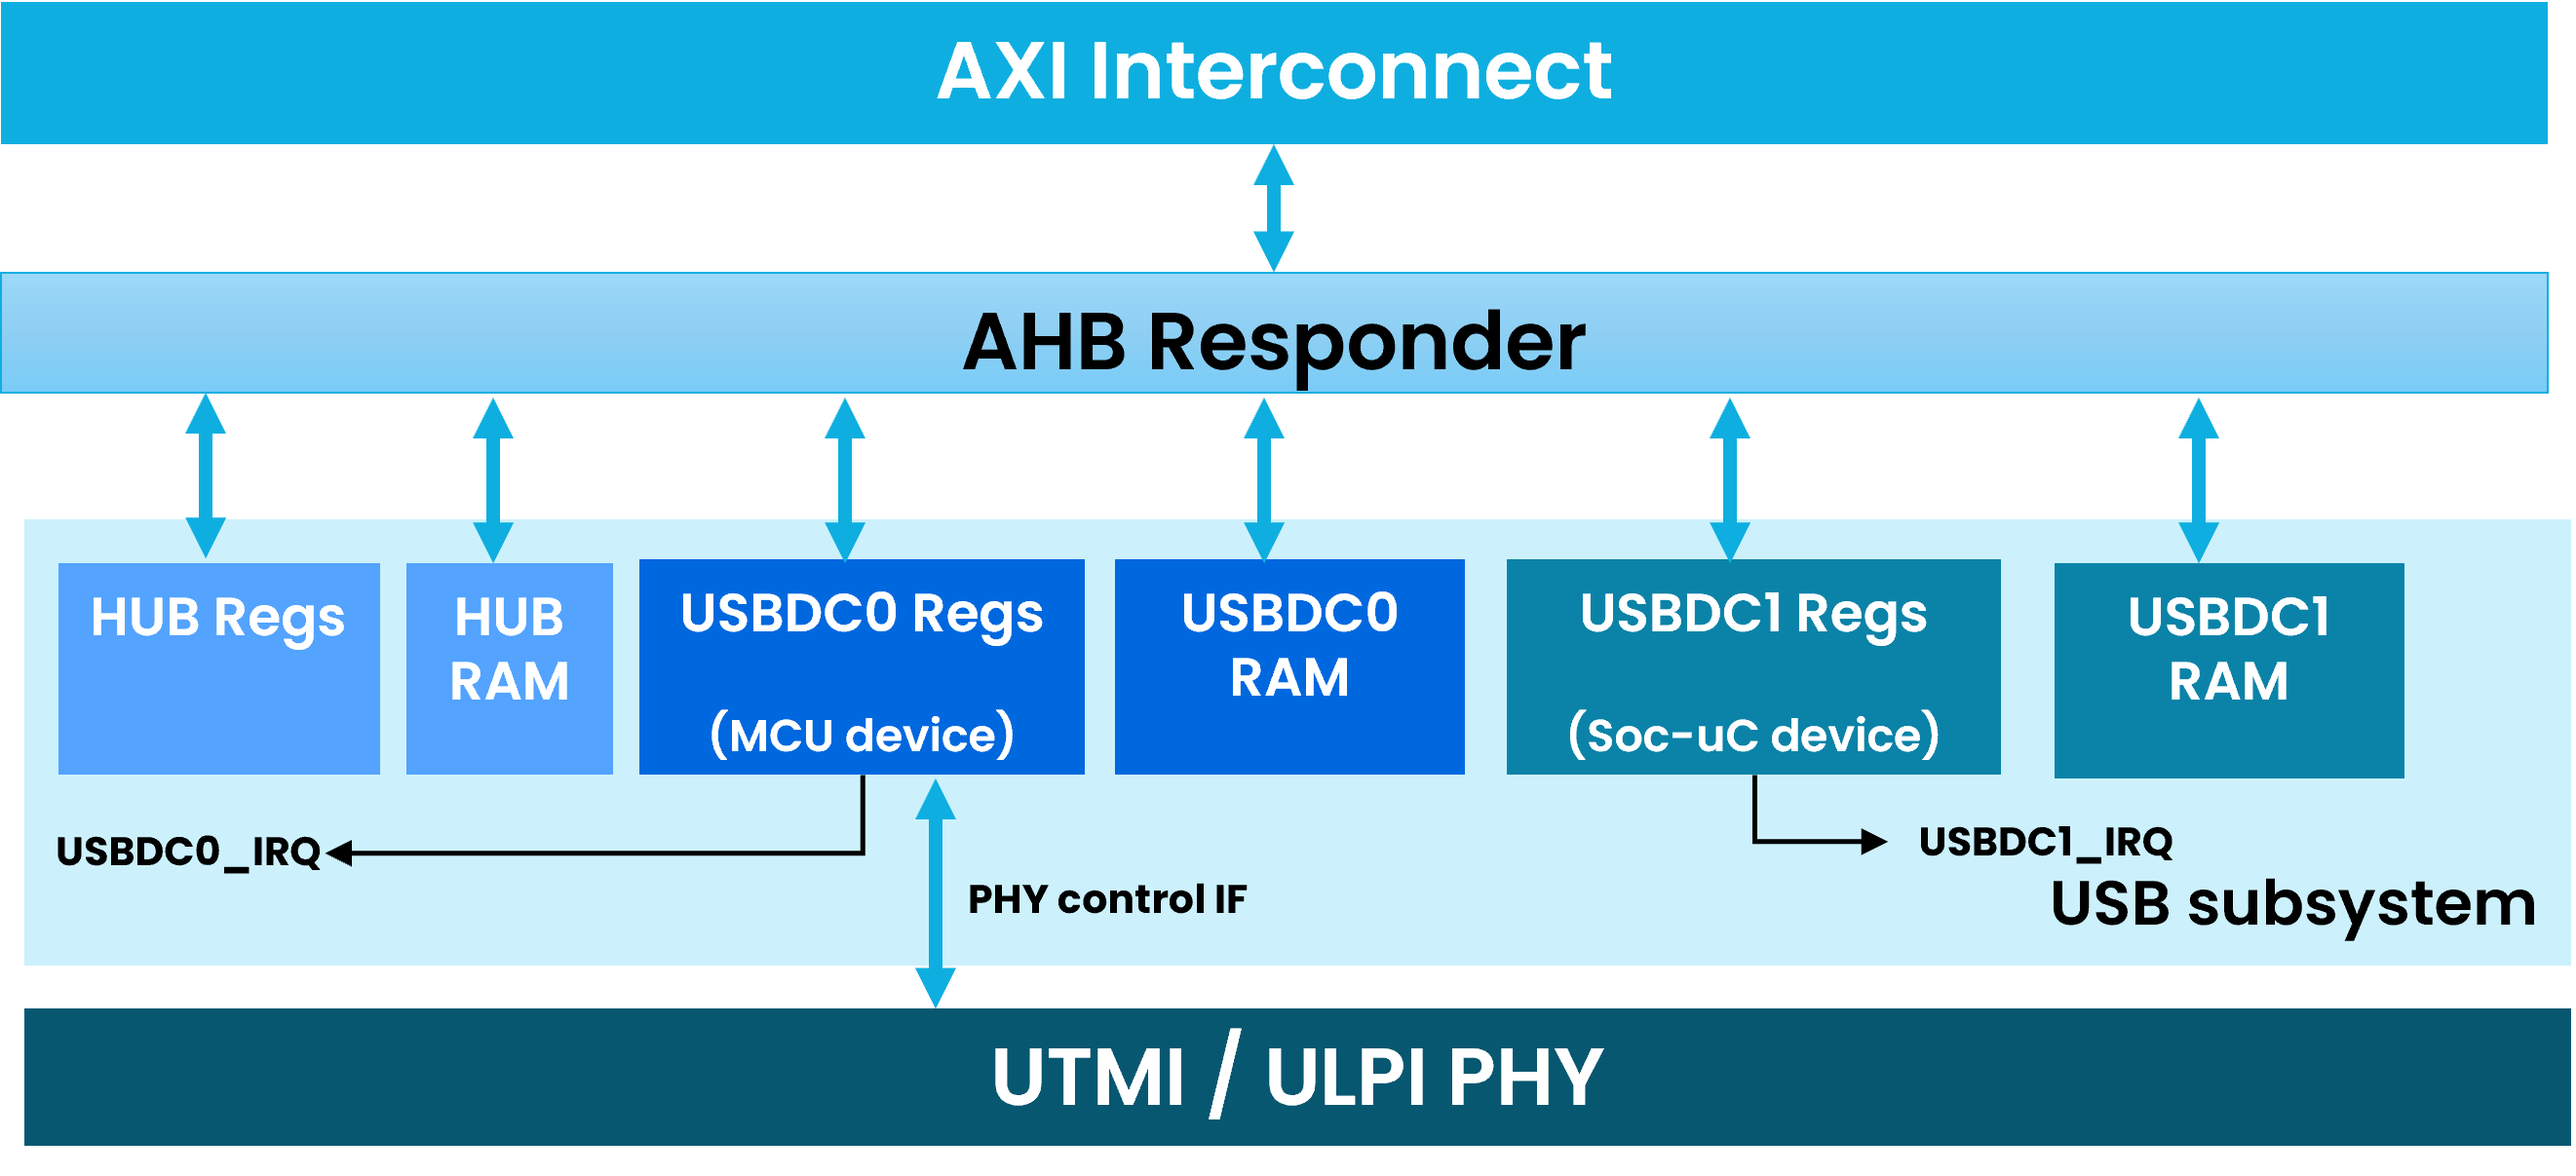
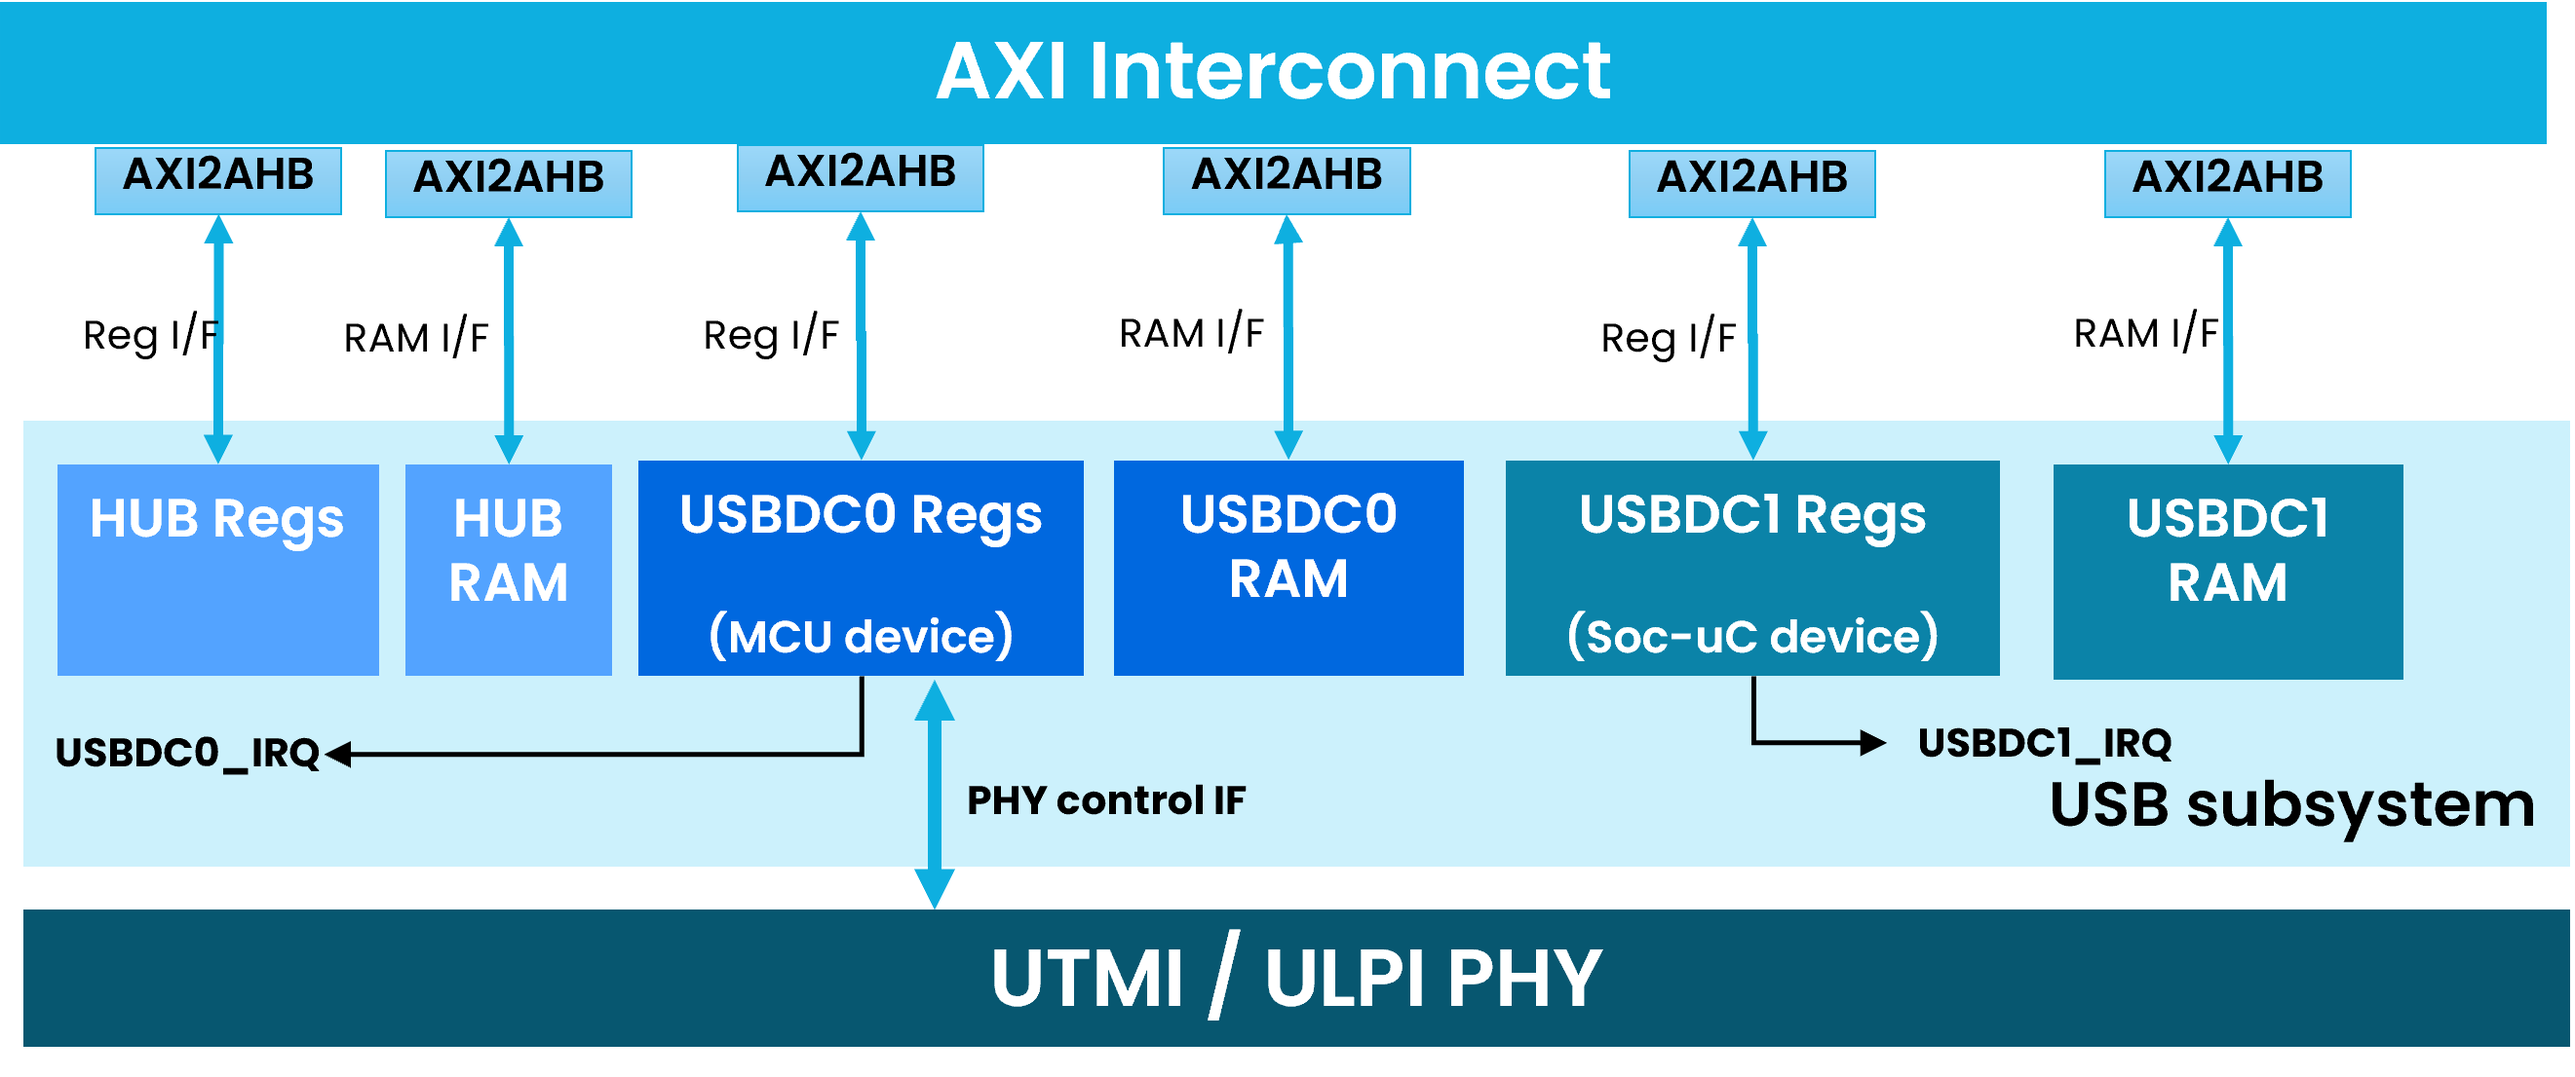
[DOC] USB2 documentation update #2
- Updated USB syste view diagram
- Updated enumeration sequence diagrams
- Updated hitless update scenario
- Removed SoC-uC reset of USBD1 sections
- Clarified HUB RAM description

diff --git a/docs/USB2_Programmers_Guide.md b/docs/USB2_Programmers_Guide.md
@@ -56,28 +56,34 @@ The SoC with caliptra-ss containing USB module exposes one physical USB connecti
 2. Downstream Port 0 connected to USBDC0 managed by MCU.
 3. Downstream Port 1 connected to USBDC1 managed by SoC-uC.
 
-The external BMC host observes a topology equivalent to:
-
+The external USB host observes a topology equivalent to:
 
 ```text
-                        BMC USB Host
-                            |
-                            |
-                  Single USB Connection
-                            |
-                            v
-                   +----------------------+
-                   | Embedded Virtual Hub |
-                   |       (EVH)          |
-                   +----------------------+
-                        |             |
-                        |             |
-                        v             v
-                  +-----------+   +-------------+
-                  |   USBDC0  |   |   USBDC1    |
-                  | MCU Device|   |SoC-uC Device|
-                  +-----------+   +-------------+
+
+       PLATFORM / SYSTEM                    SoC with claiptra-ss
+┌─────────────────────────┐        ┌──────────────────────────────────────┐
+│                         │        │                                      │
+│        USB Host         │        │         USB2 compound device         │
+│                         │        │      ┌─────────────────────┐         │
+│  BMC, host processor,   │ Single │      │ Embedded Virtual USB|         │
+│  service processor, or  ├──USB───┼─────►│    Hub (EVH)        │         │
+│  validation host        │ Link   │      └──────────┬──────────┘         │
+│                         │        │                 │                    │
+└─────────────────────────┘        │         ┌───────┴───────┐            │
+                                   │         │               │            │
+                                   │         ▼               ▼            │
+                                   │ ┌──────────────┐ ┌──────────────┐    │
+                                   │ │    USBD0     │ │    USBD1     │    │
+                                   │ │              │ │              │    │
+                                   │ │ Caliptra-ss  │ │ SoC-uC       │    │
+                                   │ │ MCU-owned    │ │ owned        │    │
+                                   │ │ device       │ │ device       │    │
+                                   │ └──────────────┘ └──────────────┘    │
+                                   │                                      │
+                                   └──────────────────────────────────────┘
+                                              SoC boundary
 ```
+
 ### 2.2 Programmer View
 
 ![](module_view.png)
@@ -88,11 +94,11 @@ The external BMC host observes a topology equivalent to:
 |---|---|---|
 | Hub control registers | Selects hub bypass/enable mode and controls upstream hub connection | MCU ROM / MCU firmware |
 | HUB RAM | Stores hub descriptors, SETUP-request match entries, and response metadata | MCU ROM / MCU firmware |
-| Device 0 register bank | Controls MCU-owned USB device instance, including DCON | MCU ROM / MCU firmware |
+| Device 0 register bank | Controls MCU owned USB device instance, including DCON | MCU ROM / MCU firmware |
 | Device 0 EP-list RAM | Stores USBDC0 endpoint command/status entries | MCU ROM / MCU firmware |
 | Device 0 data-buffer RAM | Stores USBDC0 SETUP, control, interrupt, and bulk-transfer data | MCU ROM / MCU firmware |
 | Device 0 IRQ | IRQ associated with USBDC0 instance. | MCU ROM / MCU firmware |
-| Device 1 register bank | Controls SoC-owned USBDC1 instance, including DCON | SoC-uC firmware |
+| Device 1 register bank | Controls SoC-uC owned USBDC1 instance, including DCON | SoC-uC firmware |
 | Device 1 EP-list RAM | Stores USBDC1 endpoint command/status entries | SoC-uC firmware |
 | Device 1 data-buffer RAM | Stores USBDC1 SETUP, control, interrupt, and bulk-transfer data | SoC-uC firmware |
 | Device 1 IRQ | IRQ associated with USBDC1 instance. | SoC-uC firmware |
@@ -161,7 +167,7 @@ sequenceDiagram
     MCU_FW->>MCUU: USBDC initialize
     MCUU->>EVH: USBDC0 connected
 
-    EVH->>Host: Port0 Status Change
+    EVH--)Host: Port0 Status Change
     Host->>EVH: Get Port0 Status
     EVH-->>Host: Port0 Connected
 
@@ -177,7 +183,7 @@ sequenceDiagram
     CM55_FW->>CM55U: USBDC initialize
     CM55U->>EVH: Device Ready
 
-    EVH->>Host: Port1 Status Change
+    EVH--)Host: Port1 Status Change
     Host->>EVH: Get Port1 Status
     EVH-->>Host: Port1 Connected
 
@@ -188,7 +194,7 @@ sequenceDiagram
 
     Note over Host,CM55_FW: Final State
     Note over CM55_FW: SoC-uC FW can implement composite USB device<br/>with multiple interfaces and endpoints
-    EVH-->>Host: Hub Operational<br/>Port0 Enumerated<br/>Port1 Enumerated
+    EVH--)Host: Hub Operational<br/>Port0 Enumerated<br/>Port1 Enumerated
 ```
 --------------------
 ##### 2.4.1.1 HUB Enumeration
@@ -272,23 +278,23 @@ sequenceDiagram
 
     Note over Host,CM55_FW: Hitless update of SoC-uC
     Host <<->> MCU_FW : OCP hitless update of SoC-uC
-    MCU_FW <<->> CM55_FW : Reset_Req/ACK
-    MCU_FW ->> soc : Reset SoC-uC for update
-    soc ->> CM55U : Disconnect request
+    MCU_FW ->> CM55_FW : Reset_Req
+    CM55_FW ->> CM55U : Clear DCON
     CM55U ->> EVH : Device disconnected
+    CM55_FW -->>MCU_FW : Reset_ACK
+    MCU_FW ->> soc : Reset SoC-uC for update
 
-    Note over CM55U,CM55_FW: USBDC owned by SoC-uC resets
-    EVH ->> Host : Port1 Status Change
+    EVH --) Host : Port1 Status Change
     Host ->> EVH : Get Port1 Status
     EVH -->> Host : Port1 dis-connected
 
     note over soc,CM55_FW: SoC-uC boots boot the updated runtime FW.
 
     soc ->> CM55_FW : Boot updated FW
-    CM55_FW ->> CM55U : USBDC initialize
+    CM55_FW ->> CM55U : USBDC re-initialize ECL & set DCON
     CM55U ->> EVH : Device Ready
 
-    EVH ->> Host : Port1 Status Change
+    EVH --) Host : Port1 Status Change
     Host ->> EVH : Get Port1 Status
     EVH -->> Host : Port1 Connected
 
@@ -298,25 +304,6 @@ sequenceDiagram
     note over CM55U,CM55_FW: USBDC1 now operational and visible on USB.
 
 ```
-##### 2.4.2.1 SoC USB reset asserted with SoC reset
-
-If the USBDC1 AHB reset is asserted with the SoC controller reset:
-
-1. USBDC1 register state is reset and USBDC1 disconnects.
-2. Hub and USBDC0 MUST remain operational.
-3. After restart, SoC firmware MUST rebuild USBDC1's register state, EP list, and buffers before setting USBDC1 `DCON`.
-
-##### 2.4.2.2 SoC USB reset not asserted
-
-If USBDC1 is not reset automatically:
-
-1. The reset initiator or MCU firmware MUST clear USBDC1 `DCON` before SoC reset.
-2. Firmware MUST quiesce active USBDC1 endpoint buffers and revoke USBDC1 RAM ownership as required.
-3. USBDC1 MUST remain disconnected while the SoC owner is unavailable.
-4. Restarted SoC firmware MUST reinitialize USBDC1 before setting `DCON`.
-5. Firmware MUST NOT clear `HUB_CONNECT`, because that would also disconnect USBDC0.
-
-Returning STALL responses for the entire reset interval is not the required recovery model. Controlled USBDC1 disconnect and reconnect is required.
 
 #### 2.4.3 Common Cold-Boot Sequence
 
@@ -364,6 +351,8 @@ The hub has a dedicated AHB slave interface containing one 32-bit control & stat
 6. Clearing `HUB_CONNECT` disconnects the complete compound device. It MUST NOT be used for a Device 1-only reset or hitless update when Device 0 must remain available.
 
 ### 3.2 HUB RAM Programming Model
+
+HUB_RAM is a dedicated memory region used to store USB hub configuration and descriptor data used by the RTL lookup logic. While the hub configuration is largely static in nature, storing it in RAM rather than implementing it as fixed hardware registers provides flexibility for firmware to program or update the configuration prior to USB enumeration. This design choice enables late binding of hub attributes and descriptors without requiring RTL changes, while maintaining a fixed operational configuration during normal runtime.
 
 #### 3.2.1 Capacity and access window
 
